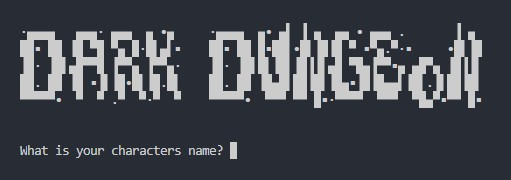
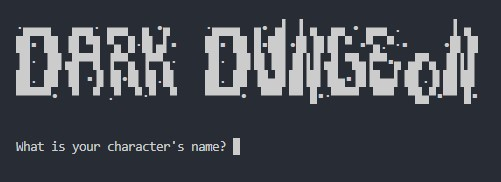
character creation

diff --git a/DarkDungeon.py b/DarkDungeon.py
@@ -10,5 +10,29 @@ def main():
 ▀▀▀▀▀•  ▀  ▀ .▀  ▀·▀  ▀    ▀▀▀▀▀•  ▀▀▀ ▀▀ █▪·▀▀▀▀  ▀▀▀  ▀█▄▀▪▀▀ █▪
 
           ''')
-    name=input("What is your characters name? ")
+    name=input("What is your character's name? ")
+    
+    print('''
+Choose a race:
+1) Human (120hp, 12 strength, 120 mana, 18% dodge)
+2) Elf (100hp, 8 strength, 160 mana, 24% dodge)
+3) Dwarf (160hp, 14 strength, 80 mana, 0% dodge)
+4) Gnome (100hp, 10 strength, 50 mana, 25% dodge)
+          ''')
+    race=''
+    while(race!='1' and race!='2' and race!='3' and race!='4'):
+        race=input("Race? (option 1,2,3,4): ")
+    
+    print('''
+Choose a class:
+1) Fighter (+40hp, +4 strength, +6 dodge)
+2) Mage (1.5x spell damage, +60 mana, +6 dodge)
+3) Barbarian (+80hp, +6 strength, -20 mana)
+          ''')
+    classa=''
+    while(classa!='1' and classa!='2' and classa!='3'):
+        classa=input("Class? (option 1,2,3): ")
+        
+
+    
 main()
